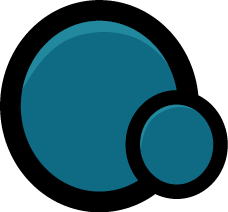
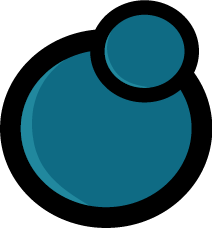
New arms

diff --git a/SommarFenomen/SommarFenomen/Objects/PlayerCell.cs b/SommarFenomen/SommarFenomen/Objects/PlayerCell.cs
@@ -30,14 +30,12 @@ namespace SommarFenomen.Objects
 
         private static readonly double MAX_SPEED = 500;
 
-        private float _rightHumerusOffsetX;
-        private float _rightHumerusOffsetY;
-        private float _rightUlnaOffset;
-        private float _rightHandOffset;
-        private float _leftHumerusOffsetX;
-        private float _leftHumerusOffsetY;
-        private float _leftUlnaOffset;
-        private float _leftHandOffset;
+        private Vector2 _rightHumerusOffset = Vector2.Zero;
+        private Vector2 _rightUlnaOffset = Vector2.Zero;
+        private Vector2 _rightHandOffset = Vector2.Zero;
+        private Vector2 _leftHumerusOffset = Vector2.Zero;
+        private Vector2 _leftUlnaOffset = Vector2.Zero;
+        private Vector2 _leftHandOffset = Vector2.Zero;
 
         private float _bodyRadius;
         private List<Body> _outerBodies;
@@ -117,7 +115,7 @@ namespace SommarFenomen.Objects
         private void InitSprites()
         {
             const float CLOUD_SCALE = 0.6F;
-            const float ARM_SCALE = 1.5f;
+            const float ARM_SCALE = 0.20f;
 
             _spriteDict = new Dictionary<PlayerSprites, Sprite>();
 
@@ -127,12 +125,12 @@ namespace SommarFenomen.Objects
             }
 
             _spriteDict[PlayerSprites.Cell].Texture = _cellTexture;
-            _spriteDict[PlayerSprites.LeftHumerus].Texture = Game1.contentManager.Load<Texture2D>(@"Images\Humerus_left");
-            _spriteDict[PlayerSprites.LeftHand].Texture = Game1.contentManager.Load<Texture2D>(@"Images\Hand_left");
-            _spriteDict[PlayerSprites.RightHumerus].Texture = Game1.contentManager.Load<Texture2D>(@"Images\Humerus_right");
-            _spriteDict[PlayerSprites.RightHand].Texture = Game1.contentManager.Load<Texture2D>(@"Images\Hand_right");
-            _spriteDict[PlayerSprites.LeftUlna].Texture = Game1.contentManager.Load<Texture2D>(@"Images\Ulna_left");
-            _spriteDict[PlayerSprites.RightUlna].Texture = Game1.contentManager.Load<Texture2D>(@"Images\Ulna_right");
+            _spriteDict[PlayerSprites.LeftHumerus].Texture = Game1.contentManager.Load<Texture2D>(@"images\Characters\Hjalte\H_arm_1_l");
+            _spriteDict[PlayerSprites.LeftHand].Texture = Game1.contentManager.Load<Texture2D>(@"images\Characters\Hjalte\H_hand_l");
+            _spriteDict[PlayerSprites.RightHumerus].Texture = Game1.contentManager.Load<Texture2D>(@"images\Characters\Hjalte\H_arm_1_r");
+            _spriteDict[PlayerSprites.RightHand].Texture = Game1.contentManager.Load<Texture2D>(@"images\Characters\Hjalte\H_hand_r");
+            _spriteDict[PlayerSprites.LeftUlna].Texture = Game1.contentManager.Load<Texture2D>(@"images\Characters\Hjalte\H_arm_2_l");
+            _spriteDict[PlayerSprites.RightUlna].Texture = Game1.contentManager.Load<Texture2D>(@"images\Characters\Hjalte\H_arm_2_r");
 
             _spriteDict[PlayerSprites.Cell].Scale = Vector2.One * CLOUD_SCALE;
             _spriteDict[PlayerSprites.Cell].IsShowing = false;
@@ -163,34 +161,27 @@ namespace SommarFenomen.Objects
 
         private void InitArms()
         {
-            _leftHumerusOffsetX = (float)(_spriteDict[PlayerSprites.Cell].ScaledSize.X * 0.1);
-            _leftHumerusOffsetY = (float)(_spriteDict[PlayerSprites.Cell].ScaledSize.Y * 0.6);
-            _leftUlnaOffset = -(float)(_spriteDict[PlayerSprites.LeftHumerus].ScaledSize.X * 0.95);
-            _leftHandOffset = -(float)(_spriteDict[PlayerSprites.LeftUlna].ScaledSize.X * 0.97);
+            _leftHumerusOffset.X = -(_spriteDict[PlayerSprites.Cell].ScaledSize.X * 0.08f);
+            _leftHumerusOffset.Y = (_spriteDict[PlayerSprites.Cell].ScaledSize.Y * 0.017f);
+            _leftUlnaOffset.X = -(_spriteDict[PlayerSprites.LeftHumerus].ScaledSize.X * 0.85f);
+            _leftHandOffset.X = -(_spriteDict[PlayerSprites.LeftUlna].ScaledSize.X * 0.87f);
+            _leftHandOffset.Y = -(_spriteDict[PlayerSprites.LeftUlna].ScaledSize.Y * 0.18f);
 
-            _rightHumerusOffsetX = (float)(_spriteDict[PlayerSprites.Cell].ScaledSize.X * 0.8);
-            _rightHumerusOffsetY = (float)(_spriteDict[PlayerSprites.Cell].ScaledSize.Y * 0.6);
-            _rightUlnaOffset = (float)(_spriteDict[PlayerSprites.RightHumerus].ScaledSize.X * 0.95);
-            _rightHandOffset = (float)(_spriteDict[PlayerSprites.RightUlna].ScaledSize.X * 0.97);
-
-            _leftHumerusOffsetX = -50;
-            _leftHumerusOffsetY = 10;
-            _rightHumerusOffsetX = 50;
-            _rightHumerusOffsetY = 10;
-
+            _rightHumerusOffset.X = (_spriteDict[PlayerSprites.Cell].ScaledSize.X * 0.08f);
+            _rightHumerusOffset.Y = (_spriteDict[PlayerSprites.Cell].ScaledSize.Y * 0.017f);
+            _rightUlnaOffset.X = (_spriteDict[PlayerSprites.RightHumerus].ScaledSize.X * 0.85f);
+            _rightHandOffset.X = (_spriteDict[PlayerSprites.RightUlna].ScaledSize.X * 0.87f);
+            _rightHandOffset.Y = -(_spriteDict[PlayerSprites.RightUlna].ScaledSize.Y * 0.18f);
 
             //Set left
             Vector2 newHumerusPosition = new Vector2();
-            newHumerusPosition.X = Position.X + _leftHumerusOffsetX;
-            newHumerusPosition.Y = Position.Y + _leftHumerusOffsetY;
+            newHumerusPosition = Position + _leftHumerusOffset;
 
             Vector2 newUlnaPosition = new Vector2();
-            newUlnaPosition.X = newHumerusPosition.X + _leftUlnaOffset;
-            newUlnaPosition.Y = newHumerusPosition.Y;
+            newUlnaPosition = newHumerusPosition + _leftUlnaOffset;
 
             Vector2 newHandPosition = new Vector2();
-            newHandPosition.X = newUlnaPosition.X + _leftHandOffset;
-            newHandPosition.Y = newUlnaPosition.Y;
+            newHandPosition = newUlnaPosition + _leftHandOffset;
 
             _spriteDict[PlayerSprites.LeftHumerus].Position = newHumerusPosition;
             _spriteDict[PlayerSprites.LeftUlna].Position = newUlnaPosition;
@@ -198,16 +189,13 @@ namespace SommarFenomen.Objects
 
             //Set right
             newHumerusPosition = new Vector2();
-            newHumerusPosition.X = Position.X + _rightHumerusOffsetX;
-            newHumerusPosition.Y = Position.Y + _rightHumerusOffsetY;
+            newHumerusPosition = Position + _rightHumerusOffset;
 
             newUlnaPosition = new Vector2();
-            newUlnaPosition.X = newHumerusPosition.X + _rightUlnaOffset;
-            newUlnaPosition.Y = newHumerusPosition.Y;
+            newUlnaPosition = newHumerusPosition + _rightUlnaOffset;
 
             newHandPosition = new Vector2();
-            newHandPosition.X = newUlnaPosition.X + _rightHandOffset;
-            newHandPosition.Y = newUlnaPosition.Y;
+            newHandPosition = newUlnaPosition + _rightHandOffset;
 
             _spriteDict[PlayerSprites.RightHumerus].Position = newHumerusPosition;
             _spriteDict[PlayerSprites.RightUlna].Position = newUlnaPosition;
@@ -226,12 +214,17 @@ namespace SommarFenomen.Objects
             _spriteDict[PlayerSprites.LeftHumerus].Rotation = humerusRotation;
 
             Vector2 newUlnaPosition = new Vector2();
-            newUlnaPosition.X = _spriteDict[PlayerSprites.LeftHumerus].Position.X + (float)(Math.Cos(humerusRotation) * _leftUlnaOffset);
-            newUlnaPosition.Y = _spriteDict[PlayerSprites.LeftHumerus].Position.Y + (float)(Math.Sin(humerusRotation) * _leftUlnaOffset);
+            newUlnaPosition.X = _spriteDict[PlayerSprites.LeftHumerus].Position.X + (float)(Math.Cos(humerusRotation) * _leftUlnaOffset.X);
+            newUlnaPosition.Y = _spriteDict[PlayerSprites.LeftHumerus].Position.Y + (float)(Math.Sin(humerusRotation) * _leftUlnaOffset.X);
 
             Vector2 newHandPosition = new Vector2();
-            newHandPosition.X = newUlnaPosition.X + (float)(Math.Cos(ulnaRotation) * _leftHandOffset);
-            newHandPosition.Y = newUlnaPosition.Y + (float)(Math.Sin(ulnaRotation) * _leftHandOffset);
+            float cos, sin;
+            cos = (float)(Math.Cos(ulnaRotation));
+            sin = (float)(Math.Sin(ulnaRotation));
+            newHandPosition.X = newUlnaPosition.X + cos * _leftHandOffset.X;
+            newHandPosition.Y = newUlnaPosition.Y + sin * _leftHandOffset.X;
+            newHandPosition.X += sin * _leftHandOffset.Y;
+            newHandPosition.Y += cos * _rightHandOffset.Y;
 
             lock (locker)
             {
@@ -254,12 +247,18 @@ namespace SommarFenomen.Objects
             _spriteDict[PlayerSprites.RightHumerus].Rotation = humerusRotation;
 
             Vector2 newUlnaPosition = new Vector2();
-            newUlnaPosition.X = _spriteDict[PlayerSprites.RightHumerus].Position.X + (float)(Math.Cos(humerusRotation) * _rightUlnaOffset);
-            newUlnaPosition.Y = _spriteDict[PlayerSprites.RightHumerus].Position.Y + (float)(Math.Sin(humerusRotation) * _rightUlnaOffset);
+            newUlnaPosition.X = _spriteDict[PlayerSprites.RightHumerus].Position.X + (float)(Math.Cos(humerusRotation) * _rightUlnaOffset.X);
+            newUlnaPosition.Y = _spriteDict[PlayerSprites.RightHumerus].Position.Y + (float)(Math.Sin(humerusRotation) * _rightUlnaOffset.X);
 
             Vector2 newHandPosition = new Vector2();
-            newHandPosition.X = newUlnaPosition.X + (float)(Math.Cos(ulnaRotation) * _rightHandOffset);
-            newHandPosition.Y = newUlnaPosition.Y + (float)(Math.Sin(ulnaRotation) * _rightHandOffset);
+            float cos, sin;
+            cos = (float)(Math.Cos(ulnaRotation));
+            sin = (float)(Math.Sin(ulnaRotation));
+            newHandPosition.X = newUlnaPosition.X + cos * _rightHandOffset.X;
+            newHandPosition.Y = newUlnaPosition.Y + sin * _rightHandOffset.X;
+            newHandPosition.X += sin * _rightHandOffset.Y;
+            newHandPosition.Y += cos * _rightHandOffset.Y;
+
 
             lock (locker)
             {
